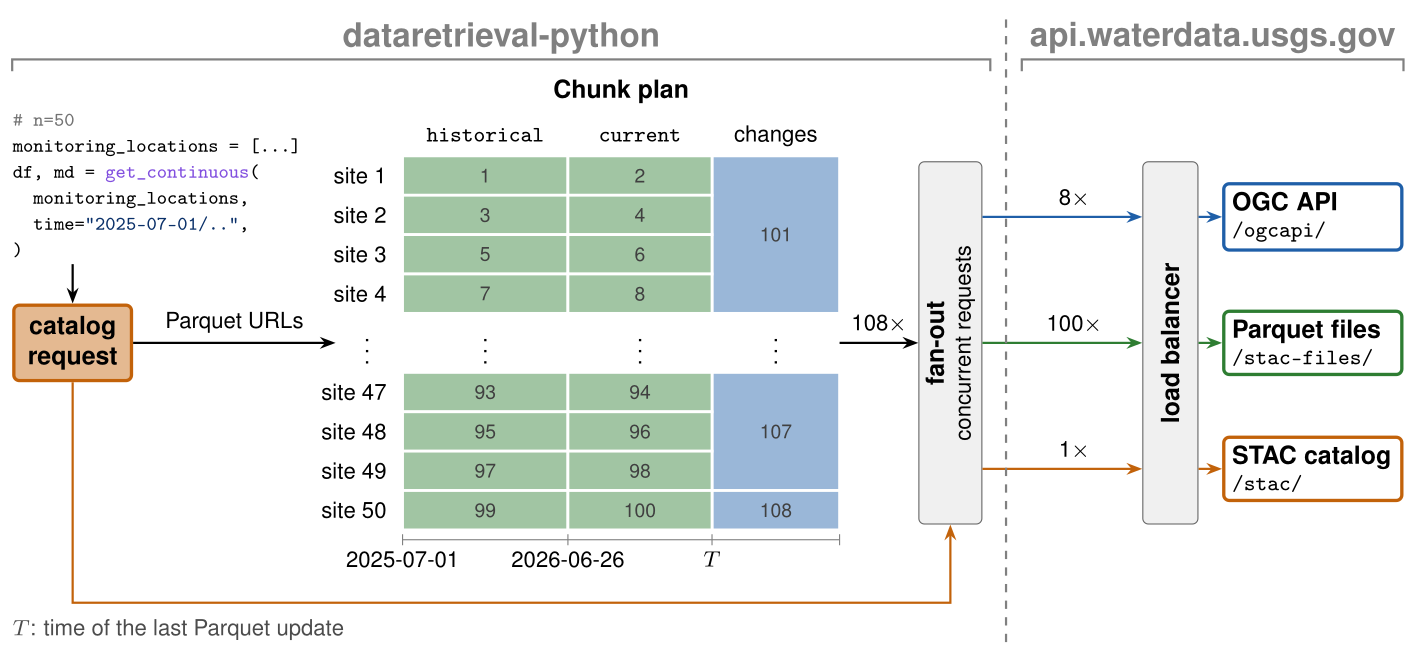
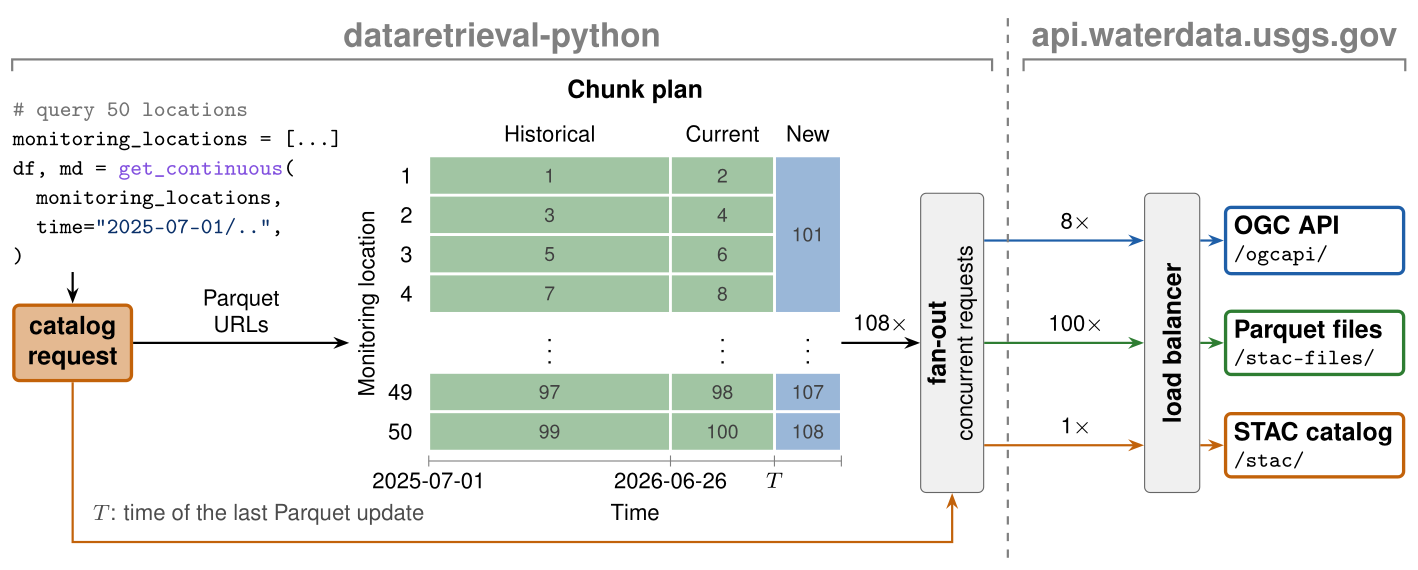
docs(adr): title the chunk plan's axes in the ADR 0014 figure
The plan's rows are monitoring locations and its columns follow time, so
both axes have a title, and the column widths follow the time axis: 360
days for the historical file, about 150 for the current file, and the few
days since T for the new records, drawn as wide as their label. The plan
shows locations 1 to 4, 49, and 50, which puts the catalog request lower
and gives the code room. The note on T moves onto the line of the Time
title, and the caption says the catalog request finishes before any chunk
starts.

The code asked for 7.5 pt, which the typewriter font has no size for, so
it was set at 7 pt. It now asks for 8 pt, the size it is set at.

Changed region(s): [[0.0, 0.0298, 0.9944, 0.9842], [0.6525, 0.2386, 0.7147, 0.2684], [0.8079, 0.2386, 0.839, 0.2684]]

diff --git a/docs/source/architecture/decisions/0014-cloud-optimized-architecture.tex b/docs/source/architecture/decisions/0014-cloud-optimized-architecture.tex
@@ -1,18 +1,19 @@
 % The cloud-optimized architecture (ADR 0014) for one example query: the
-% catalog request, the chunk plan built from the file URLs it returns, and the
-% fan-out that sends every chunk through the load balancer to its endpoint.
+% catalog request, the chunk plan built from the Parquet URLs it returns, and
+% the fan-out that sends every chunk through the load balancer to its endpoint.
 %
 % Chunks are colored by endpoint and numbered in plan order; the rows hidden
-% by the gap hold chunks 9 to 92 and 102 to 106. Each file column is one of a
-% location's two files, and the axis below gives the span of records each
-% holds. A change chunk names 7 locations: 50 split into at most 8 requests.
-% The dashed line is the boundary between dataretrieval-python and the
-% service, and the rule under each side's name spans that side.
+% by the gap hold chunks 9 to 96 and 102 to 106. Each row is a monitoring
+% location. The first two columns are a location's two files, and the third
+% holds the records new since T. Column widths follow the time axis, rounded,
+% except the new column, which is as wide as its label. A change chunk names
+% 7 locations: 50 split into at most 8 requests. The dashed line is the
+% boundary between dataretrieval-python and the service, and the rule under
+% each side's name spans that side.
 %
 % Drawn at 1:1 for a page-wide figure, 18 cm. Type sizes follow the
 % hierarchy: the two sides 12 pt bold, each step and endpoint 9 pt bold,
-% labels 8 pt, code 7.5 pt (a typewriter face reads larger), chunk numbers
-% 7 pt.
+% labels, axis titles, and code 8 pt, chunk numbers 7 pt.
 %
 % Build the PNG that ADR 0014 includes, from this directory:
 %   pdflatex 0014-cloud-optimized-architecture.tex
@@ -29,7 +30,7 @@
 \newcommand{\sidefont}{\fontsize{12}{14}\selectfont\bfseries}
 \newcommand{\stepfont}{\fontsize{9}{11}\selectfont\bfseries}
 \newcommand{\labelfont}{\fontsize{8}{9.6}\selectfont}
-\newcommand{\codefont}{\fontsize{7.5}{9.4}\selectfont}
+\newcommand{\codefont}{\fontsize{8}{10.6}\selectfont}
 \newcommand{\numberfont}{\fontsize{7}{8.4}\selectfont}
 
 % one color per endpoint, and one for the boundary
@@ -62,7 +63,7 @@
 \begin{lrbox}{\querycode}
 \begin{minipage}{\dimexpr\codewidth+1pt\relax}
 \begin{lstlisting}[style=python]
-# n=50
+# query 50 locations
 monitoring_locations = [...]
 df, md = get_continuous(
   monitoring_locations,
@@ -91,7 +92,7 @@ df, md = get_continuous(
   send/.style={->, thick, draw=#1},
   count/.style={above},
   stage/.style={draw=black!60, fill=black!6, rounded corners=2pt,
-    minimum height=4.6cm, anchor=west},
+    minimum height=3.8cm, anchor=west},
   endpoint/.style={draw=#1, very thick, rounded corners=2pt, align=left,
     fill=white, inner sep=3pt, text width=\boxwidth, anchor=west},
   side/.style={font=\sidefont, text=boundary, anchor=south, inner sep=2pt},
@@ -100,13 +101,13 @@ df, md = get_continuous(
 
 % The main flow runs along y = 2.4, through the gap in the chunk plan and
 % the middle of the fan-out and the load balancer. The three lanes to the
-% endpoints are 1.6 apart.
-\def\lanes{api/4.0, fil/2.4, cat/0.8}
+% endpoints are 1.3 apart.
+\def\lanes{api/3.7, fil/2.4, cat/1.1}
 
 % ------------------------------------------- the query and the catalog request
 % The catalog request sits under the code, on the main flow, and its URLs
 % pass under the code into the chunk plan.
-\node[inner sep=0pt, anchor=south west] (query) at (0, 3.4)
+\node[inner sep=0pt, anchor=south west] (query) at (0, 3.3)
   {\usebox{\querycode}};
 \node[draw=cat, very thick, fill=cat!45, rounded corners=2pt, align=center,
   inner xsep=5pt, inner ysep=4pt, anchor=west, font=\stepfont] (catalog)
@@ -114,56 +115,62 @@ df, md = get_continuous(
 \draw[flow] (catalog.north |- query.south) -- (catalog.north);
 
 % ------------------------------------------------------------ the chunk plan
-% Rows: one site each, 0.5 high; sites 1 to 4, a gap, sites 47 to 50.
-% Columns: a location's two files, then the changes since. The headers,
-% placed first, set each column's width, wide enough for the axis dates.
-\coordinate (plan west) at ([xshift=0.4cm]query.east |- 0, 2.4);
-\draw[flow] (catalog.east) -- node[count] {Parquet URLs} (plan west);
-\coordinate (grid west) at ([xshift=0.85cm]plan west);
-\node[header, minimum width=2.1cm] (c1) at (grid west |- 0, 4.8)
-  {\texttt{historical}};
-\node[header, minimum width=1.83cm] (c2) at (c1.south east) {\texttt{current}};
-\node[header, minimum width=1.62cm] (c3) at (c2.south east) {changes};
+% Rows: one monitoring location each, 0.5 high; locations 1 to 4, a gap,
+% 49 and 50. The gap sits low, so the catalog request sits low and leaves
+% the code room. The y-axis title runs up the rows, clear of the code.
+% Columns: a location's two files, then the records new since T. The
+% headers, placed first, set each column's width: historical and current in
+% proportion to the days each spans (360 and about 150).
+\coordinate (ytitle at) at ([xshift=0.3cm]query.east |- 0, 2.9);
+\node[rotate=90, inner sep=0pt] at (ytitle at) {Monitoring location};
+\coordinate (urls) at ([xshift=-0.25cm]ytitle at |- 0, 2.4);
+\draw[flow] (catalog.east) -- node[count, align=center] {Parquet\\URLs} (urls);
+\coordinate (grid west) at ([xshift=0.76cm]ytitle at |- 0, 2.4);
+\node[header, minimum width=3.07cm] (c1) at (grid west |- 0, 4.8) {Historical};
+\node[header, minimum width=1.32cm] (c2) at (c1.south east) {Current};
+\node[header, minimum width=0.85cm] (c3) at (c2.south east) {New};
 
 \path (c1.west) -- (c3.east) coordinate[midway] (grid middle);
 \node[anchor=south, font=\stepfont, inner sep=0pt]
   at ([yshift=0.15cm]grid middle |- c1.north) {Chunk plan};
 
-% Change chunks: 101 holds sites 1 to 7, 107 sites 43 to 49, 108 site 50.
+% Change chunks: 101 holds locations 1 to 7, 107 holds 43 to 49, 108 holds 50.
 \foreach \chunk/\top/\bottom/\middle in
-    {101/4.775/2.775/3.775, 107/2.025/0.525/1.275, 108/0.525/0.025/0.275} {
+    {101/4.775/2.775/3.775, 107/2.025/1.525/1.775, 108/1.525/1.025/1.275} {
   \fill[chunk=api] (c3.west |- 0, \bottom) rectangle (c3.east |- 0, \top);
   \node[number] at (c3 |- 0, \middle) {\chunk};
 }
 \foreach \site/\top in {1/4.775, 2/4.275, 3/3.775, 4/3.275,
-                        47/2.025, 48/1.525, 49/1.025, 50/0.525} {
+                        49/2.025, 50/1.525} {
   \fill[chunk=fil] (c1.west |- 0, \top-0.5) rectangle (c1.east |- 0, \top);
   \fill[chunk=fil] (c2.west |- 0, \top-0.5) rectangle (c2.east |- 0, \top);
   \node[number] at (c1 |- 0, \top-0.25) {\the\numexpr 2*\site-1\relax};
   \node[number] at (c2 |- 0, \top-0.25) {\the\numexpr 2*\site\relax};
-  \node[anchor=east] at ([xshift=-0.08cm]c1.west |- 0, \top-0.25)
-    {site \site};
+  \node[anchor=east] at ([xshift=-0.08cm]c1.west |- 0, \top-0.25) {\site};
 }
-\node at ([xshift=-0.45cm]c1.west |- 0, 2.4) {$\vdots$};
 \foreach \c in {c1, c2, c3}
   \node at (\c |- 0, 2.4) {$\vdots$};
 
-% Time axis: the span of records in each file, then the changes since T.
-\draw[black!50] (c1.west |- 0, -0.1) -- (c3.east |- 0, -0.1);
-\foreach \edge/\when in {c1.west/2025-07-01, c1.east/2026-06-26, c2.east/$T$,
-                         c3.east/{}} {
-  \draw[black!50] (\edge |- 0, -0.03) -- (\edge |- 0, -0.17);
-  \node[tick] at (\edge |- 0, -0.17) {\when};
+% Time axis: the span of records in each file, then the new records since T.
+\draw[black!50] (c1.west |- 0, 0.9) -- (c3.east |- 0, 0.9);
+\foreach \edge/\when/\name in {c1.west/2025-07-01/a, c1.east/2026-06-26/b,
+                               c2.east/$T$/c, c3.east/{}/d} {
+  \draw[black!50] (\edge |- 0, 0.97) -- (\edge |- 0, 0.83);
+  \node[tick] (tick \name) at (\edge |- 0, 0.83) {\when};
 }
+\node[anchor=north, inner sep=2pt] (xtitle)
+  at ([yshift=-0.04cm]grid middle |- tick a.south) {Time};
 
 % ------------------------------------------------------------- the fan-out
-% The catalog request, the file chunks, and the change chunks all run on it.
+% The catalog request, the file chunks, and the change chunks all run on it,
+% in that order: each run ends before the next starts.
 % The catalog request passes under the plan and enters from below.
 \node[stage, minimum width=0.8cm] (fanout) at ([xshift=1.0cm]c3.east |- 0, 2.4) {};
 \node[align=center, rotate=90] at (fanout.center)
   {{\stepfont fan-out}\\concurrent requests};
 \draw[flow] (c3.east |- 0, 2.4) -- node[count] {108$\times$} (fanout.west |- 0, 2.4);
-\draw[send=cat] (catalog.south) -- (catalog.south |- 0, -0.9) -| (fanout.south);
+\coordinate (under plan) at ([yshift=-0.2cm]xtitle.south);
+\draw[send=cat] (catalog.south) -- (catalog.south |- under plan) -| (fanout.south);
 
 % --------------------------------------- the boundary and the load balancer
 % Each request crosses the boundary as it leaves the fan-out.
@@ -174,26 +181,29 @@ df, md = get_continuous(
 \foreach \lane/\y in \lanes
   \draw[send=\lane] (fanout.east |- 0, \y) -- (lb.west |- 0, \y);
 \path (boundary) -- (lb.west |- boundary) coordinate[midway] (counts);
-\foreach \y/\label in {4.0/8$\times$, 2.4/100$\times$, 0.8/1$\times$}
+\foreach \y/\label in {3.7/8$\times$, 2.4/100$\times$, 1.1/1$\times$}
   \node[count] at (counts |- 0, \y) {\label};
 
 % ---------------------------------------------------------------- endpoints
-\node[endpoint=api] (ogc)   at ([xshift=0.3cm]lb.east |- 0, 4.0)
+\node[endpoint=api] (ogc)   at ([xshift=0.3cm]lb.east |- 0, 3.7)
   {{\stepfont OGC API}\\\texttt{/ogcapi/}};
 \node[endpoint=fil] (files) at ([xshift=0.3cm]lb.east |- 0, 2.4)
   {{\stepfont Parquet files}\\\texttt{/stac-files/}};
-\node[endpoint=cat] (stac)  at ([xshift=0.3cm]lb.east |- 0, 0.8)
+\node[endpoint=cat] (stac)  at ([xshift=0.3cm]lb.east |- 0, 1.1)
   {{\stepfont STAC catalog}\\\texttt{/stac/}};
 \foreach \lane/\y in \lanes
   \draw[send=\lane] (lb.east |- 0, \y) -- ([xshift=0.3cm]lb.east |- 0, \y);
 
-\node[anchor=north west, text=black!70, inner sep=0pt]
-  at (query.west |- 0, -1.1) {$T$: time of the last Parquet update};
+% The note on T sits on the line of the Time title, inside the catalog
+% request's line to the fan-out.
+\node[anchor=base west, text=black!70, inner sep=0pt]
+  at ([xshift=0.25cm]catalog.south |- xtitle.base)
+  {$T$: time of the last Parquet update};
 
 % ----------------------------------------------------------- the two sides
 % A rule under each side's name spans that side, up to the boundary.
 \def\ruley{6.0}
-\draw[boundary, dashed, thick] (boundary |- 0, -1.4)
+\draw[boundary, dashed, thick] ([yshift=-0.2cm]boundary |- under plan)
   -- (boundary |- 0, \ruley+0.6);
 \coordinate (client east) at ([xshift=-0.2cm]boundary);
 \coordinate (service west) at ([xshift=0.2cm]boundary);

diff --git a/docs/source/architecture/decisions/0014-bulk-retrieval.rst b/docs/source/architecture/decisions/0014-bulk-retrieval.rst
@@ -158,21 +158,27 @@ other error on a file is raised.
 .. figure:: 0014-cloud-optimized-architecture.png
    :alt: At left, a get_continuous call for 50 monitoring locations since
       2025-07-01, and under it a catalog request that returns Parquet URLs.
-      Then, left to right: the chunk plan, with one row per site and one
-      column per time interval; the fan-out;
+      Then, left to right: the chunk plan, with one row per monitoring
+      location and columns for the historical file, the current file, and the
+      records new since T, above a time axis; the fan-out;
       a dashed line between dataretrieval-python and api.waterdata.usgs.gov;
       the load balancer; and the STAC catalog, Parquet files, and OGC API
-      endpoints. Chunks 1 to 100, two per site, go to the files, and chunks
-      101 to 108, up to seven sites each after T, go to the OGC API.
+      endpoints. The catalog request runs through the fan-out to the STAC
+      catalog. Chunks 1 to 100, two per location, go to the files, and chunks
+      101 to 108, up to seven locations each after T, go to the OGC API.
    :width: 100%
 
    One ``get_continuous`` call for 50 monitoring locations. The catalog
-   request returns the Parquet URLs the chunk plan is built from. Chunks 1 to
-   100 read the files up to ``T``, and chunks 101 to 108 ask the OGC API for
-   every record changed since, up to 7 locations each: step 4 splits the change
-   query into at most 8 requests. Every request goes to the same load balancer,
-   which routes it by path. The figure's source is
-   ``0014-cloud-optimized-architecture.tex`` in this directory.
+   request goes through the fan-out to the STAC catalog and finishes before
+   any chunk starts; the Parquet URLs it returns are what the chunk plan is
+   built from. Chunks 1 to 100 read the files up to ``T``, and chunks 101 to
+   108 ask the OGC API for every record changed since, up to 7 locations each:
+   step 4 splits the change query into at most 8 requests. Every request goes
+   to the same load balancer, which routes it by path. The plan shows
+   locations 1 to 4, 49, and 50, and its column widths follow the time axis;
+   the new column holds a few days, so it is drawn as wide as its label. The
+   figure's source is ``0014-cloud-optimized-architecture.tex`` in this
+   directory.
 
 **Filters are classified by whether a record can change them.**
 ``parameter_code``, ``statistic_id``, ``time_series_id``, and
